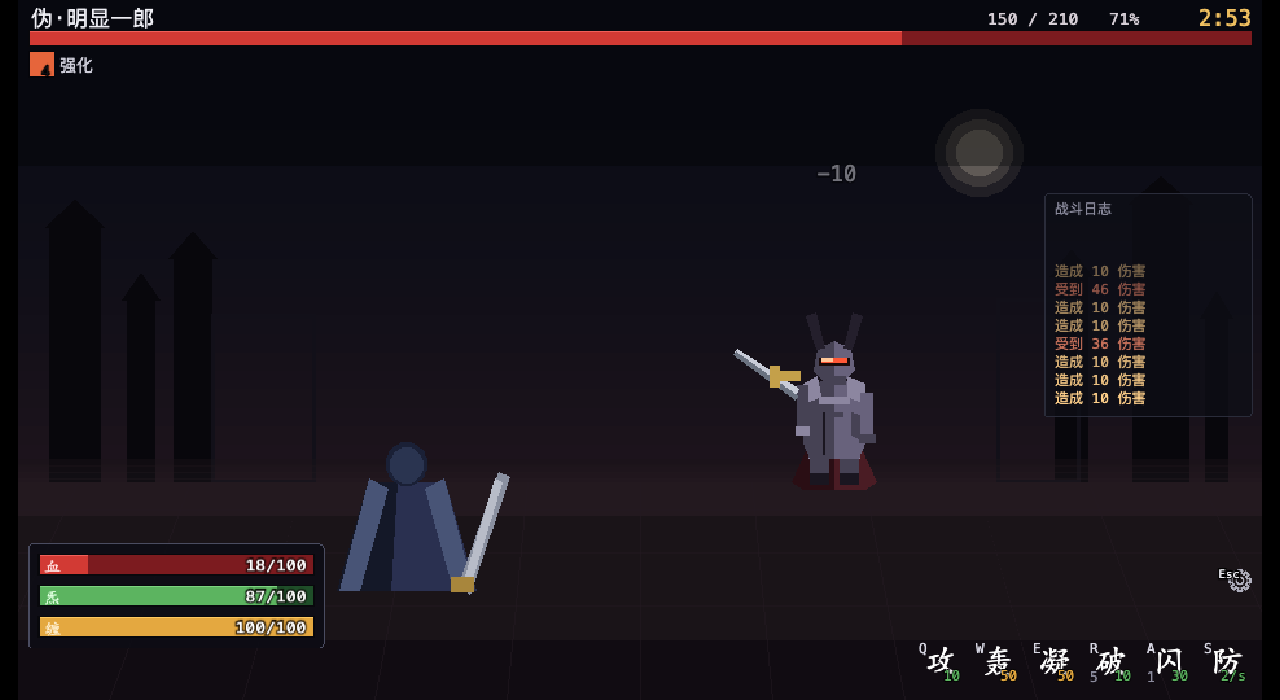
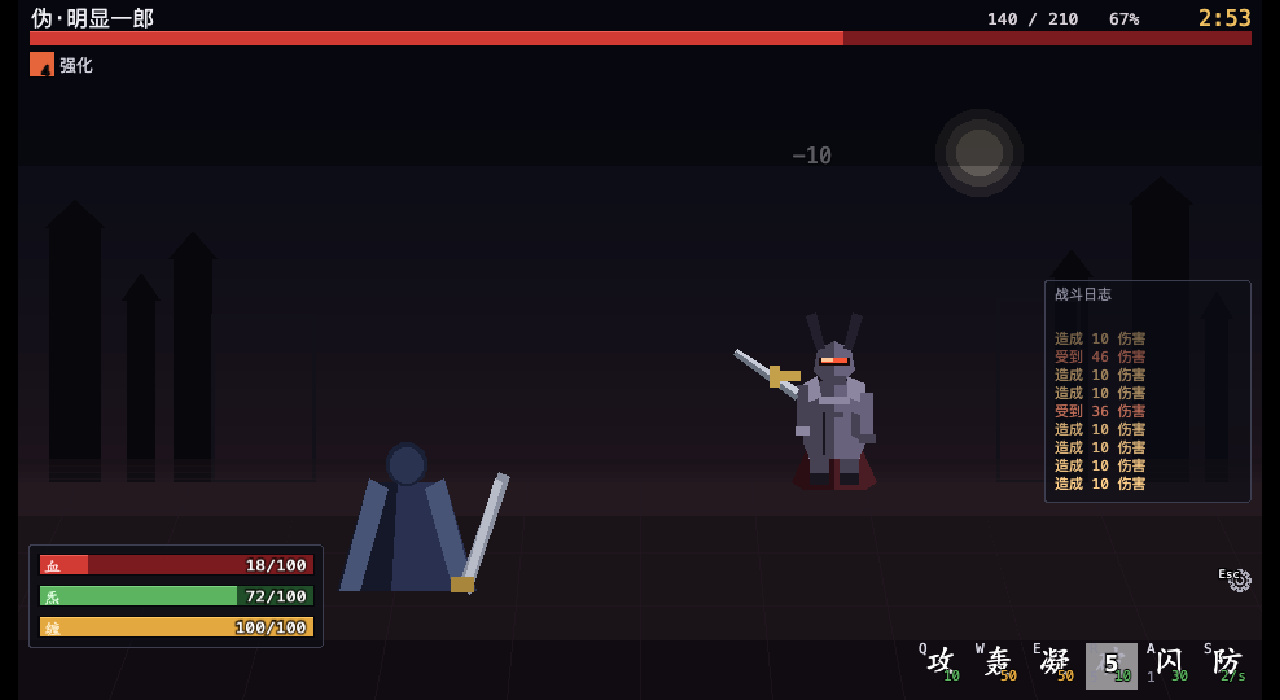
fix(settings): 鼠标与方向键的选中合并；日志面板下移；面板外观统一
【1. 鼠标选中与方向键选中合并】
需求："设置里的按键设置，目前方向键选中和鼠标选中是两件事，应该合并。"

原先的语义是两套：
  - 方向键 → 移动**焦点**（高亮 + 详情跟着变）
  - 点格子 → 立刻 `startCapture`（进改键），**焦点不动** ——
    所以点完一个技能，详情区显示的还是上一个技能

现在统一成"**选中**"：
  - 点/悬停技能格 → `setFocusToSkill()`，与方向键走**同一条路径**
  - 改键统一走 `Enter`（`activateFocus`），于是"选中"与"改键"
    是两个清晰的动作
  - 新增 `hoverSkill()`，鼠标划过即选中（与键盘完全一致）

实测：悬停「破」→ 焦点 index 3、详情同步；悬停「防」→ index 5、
代价显示 `2 炁/秒`。

【2. 战斗日志面板下移：y 150 → 216】
150 时它紧贴 Boss buff 那一带，和顶栏视觉上挤在一起。
216 落在右侧中段空带：上距 Boss 区 156px、下（底边 388）距技能栏
104px、左不与 Boss 本体（约 x 560..700）重叠。

【3. 面板外观统一 + 透明度调低】
需求："战斗日志和人物资源面板用的是一个组件吗？最好用一个，
然后把背景的透明度调低。"

它们**本来就用同一个 `Panel` 组件**，但构造参数各写一遍：
填充 `0x0c0c14` vs `0x0d0e16`、描边 `0x4a4c60` vs `0x2a2c3a` ——
差异小到看不出来，却是两处要同步维护的真相。

抽出 `PANEL_STYLE`（fill / line / fillAlpha 0.62 / radius 3）：
  - 玩家资源面板、日志面板都展开它 → "所有面板是一个东西"成为默认
  - 透明度 0.62 比原先的 0.86 / 0.72 都低
  - **结算面板显式覆盖为 0.97**：它是结算，要挡住战斗画面

【测试 +4 条】共用外观常量、透明度低于原值、结算面板故意更实、
日志面板位置约束。

【另外，我修正了一个操作事故】
我之前一直用 `pkill -9 -f "Google Chrome"` 清理 headless 测试进程 ——
那个模式**会匹配用户正在用的 Chrome**，很可能把他的浏览器窗口关掉了。
现在一律只用带 `headless` 限定的模式。

531 测试 + lint + typecheck + build + CDP 端到端全过。

diff --git a/tests/unit/log.test.ts b/tests/unit/log.test.ts
@@ -2,6 +2,7 @@ import { describe, expect, it } from 'vitest';
 import { LogFormatter } from '../../src/app/logFormat';
 import { LAYOUT, LOGICAL, scaleUiRect } from '../../src/ui/layout';
 import { UiLayout } from '../../src/ui/uiLayout';
+import { PANEL_STYLE } from '../../src/ui/primitives';
 import {
   UI_SCALE_MAX,
   UI_SCALE_MIN,
@@ -502,5 +503,50 @@ describe('UI 缩放：覆盖面与鼠标支持', () => {
     expect(hitTest(rect.x + 4, rect.y + 4, { tab: 'keys', rowSkillIds: ['attack'] }).kind).not.toBe(
       'scaleSlider',
     );
+  });
+});
+
+describe('面板外观统一', () => {
+  /**
+   * 需求："战斗日志和人物资源面板用的是一个组件吗？最好用一个，
+   * 然后把背景的透明度调低。"
+   *
+   * 它们**本来就用同一个 `Panel` 组件**，但构造参数各写一遍
+   * （填充 `0x0c0c14` vs `0x0d0e16`、描边 `0x4a4c60` vs `0x2a2c3a`）——
+   * 差异小到看不出，却是两处要同步维护的真相。
+   */
+  it('【关键】日志面板与资源面板共用同一组外观参数', async () => {
+    const { readFileSync } = await import('node:fs');
+    const log = readFileSync(new URL('../../src/ui/LogPanel.ts', import.meta.url), 'utf8');
+    const scene = readFileSync(new URL('../../src/render/BattleScene.ts', import.meta.url), 'utf8');
+    // 两者都从共享常量展开，而不是各写 fill/line/fillAlpha
+    expect(log).toMatch(/\.\.\.PANEL_STYLE/);
+    expect(scene).toMatch(/\.\.\.PANEL_STYLE/);
+    // 而且都不该再出现"自己写的面板填充色"
+    expect(log).not.toMatch(/fill: 0x0d0e16/);
+    expect(scene).not.toMatch(/fill: 0x0c0c14/);
+  });
+
+  it('共享样式的透明度低于原先的两个值（需求："调低"）', () => {
+    expect(PANEL_STYLE.fillAlpha).toBeLessThan(0.72);
+    expect(PANEL_STYLE.fillAlpha).toBeGreaterThan(0.3);
+  });
+
+  it('结算面板**故意**比常规面板不透明（它是结算，要挡住战斗画面）', async () => {
+    const { readFileSync } = await import('node:fs');
+    const scene = readFileSync(new URL('../../src/render/BattleScene.ts', import.meta.url), 'utf8');
+    const idx = scene.indexOf('this.resultPanel = new Panel');
+    expect(idx).toBeGreaterThan(0);
+    expect(scene.slice(idx, idx + 400)).toMatch(/fillAlpha: 0\.9/);
+  });
+
+  it('日志面板在右侧中段：不压顶栏、不压技能栏、不与 Boss 本体重叠', () => {
+    const r = LAYOUT.log;
+    // 下移过（150 → 216）：与顶栏/Boss buff 拉开距离
+    expect(r.y).toBeGreaterThanOrEqual(200);
+    expect(r.y + r.h).toBeLessThanOrEqual(LAYOUT.skillBar.y);
+    // 贴右边缘（留安全边距）
+    expect(r.x + r.w).toBeLessThanOrEqual(LOGICAL.width);
+    expect(r.x).toBeGreaterThan(LOGICAL.width / 2);
   });
 });

diff --git a/src/ui/settings/SettingsPanel.ts b/src/ui/settings/SettingsPanel.ts
@@ -423,9 +423,21 @@ export class SettingsPanel {
         this.setNotice(this.options.translate('settings.keysResetDone'));
         this.redraw();
         return true;
-      case 'keyRow':
-        this.startCapture(target.skillId);
+      case 'keyRow': {
+        /**
+         * ⚠ 点技能格 = **选中**，不是直接改键。
+         *
+         * 需求："设置里的按键设置，目前方向键选中和鼠标选中是两件事，
+         * 应该合并。"
+         *
+         * 原先点格子会立刻 `startCapture`（进入改键），而方向键只是移动
+         * 焦点 —— 两套语义，而且点完之后详情区显示的还是**上一个**
+         * 技能（焦点没变）。现在鼠标与方向键都只做"选中"，
+         * 改键统一走 `Enter`（`activateFocus`）。
+         */
+        this.setFocusToSkill(target.skillId);
         return true;
+      }
       case 'scaleSlider':
         /**
          * 鼠标点/拖滑块：由横坐标直接反算倍数（点到哪跳到哪）。
@@ -441,6 +453,45 @@ export class SettingsPanel {
         // 点在弹窗内的空白处：消费掉，不穿透到战斗
         return true;
     }
+  }
+
+  /**
+   * 选中某个技能（合并鼠标与键盘的"选中"语义）。
+   *
+   * 只移动焦点并重画 —— **不**进入改键。改键统一由 `Enter` 触发
+   * （见 `activateFocus`），于是"选中"与"改键"是两个清晰的动作。
+   */
+  setFocusToSkill(skillId: string): void {
+    const index = this.options.getRows().findIndex((r) => r.skillId === skillId);
+    if (index < 0) return;
+    this.setFocus({ zone: 'grid', index });
+  }
+
+  /**
+   * 鼠标悬停到某个技能格上 —— 与方向键选中是**同一件事**。
+   *
+   * 需求要求合并这两者；悬停也走同一条路径，所以"鼠标划过"与
+   * "方向键移动"看到的是同一个高亮、同一份详情。
+   */
+  hoverSkill(px: number, py: number): void {
+    if (!this.visible || this.tab !== 'keys') return;
+    const rows = this.options.getRows();
+    const target = hitTestLogic(px, py, {
+      tab: this.tab,
+      rowSkillIds: rows.map((r) => r.skillId),
+    });
+    if (target.kind !== 'keyRow') return;
+    this.setFocusToSkill(target.skillId);
+  }
+
+  /** 设焦点并重画（统一入口，保证焦点变化一定会重绘）。 */
+  private setFocus(next: SettingsFocus): void {
+    const same =
+      next.zone === this.focus.zone &&
+      (next.zone !== 'grid' || next.index === (this.focus.zone === 'grid' ? this.focus.index : -1));
+    if (same) return;
+    this.focus = next;
+    this.redraw();
   }
 
   /** 某个逻辑坐标是否落在通用页的滑块上（拖动拖拽用）。 */

diff --git a/src/ui/primitives.ts b/src/ui/primitives.ts
@@ -58,6 +58,33 @@ export interface PanelProps {
  */
 export const HALF_PIXEL = 0.5;
 
+/**
+ * 面板的**共享外观**（填充色 / 描边 / 透明度 / 圆角）。
+ *
+ * ==================================================================
+ * 为什么要抽出来
+ * ==================================================================
+ *
+ * 需求："战斗日志和人物资源面板用的是一个组件吗？最好用一个，
+ * 然后把背景的透明度调低。"
+ *
+ * 它们**本来就用的是同一个 `Panel` 组件**，但构造参数各写了一遍：
+ * 填充 `0x0c0c14` vs `0x0d0e16`、描边 `0x4a4c60` vs `0x2a2c3a` ——
+ * 差异小到看不出来，却是两处需要同步维护的真相。
+ *
+ * 抽成常量之后"所有面板看起来是一个东西"变成**默认行为**，
+ * 而不是每次都得记得抄对参数。
+ *
+ * 透明度取 0.62：比原来的 0.86 / 0.72 都低 —— 需求要"调低"，
+ * 而且面板是**压在战斗画面之上**的，越透越不影响看战斗。
+ */
+export const PANEL_STYLE = {
+  fill: 0x0c0d15,
+  line: 0x3c3e50,
+  fillAlpha: 0.62,
+  radius: 3,
+} as const;
+
 export class Panel {
   readonly root: Container;
   private readonly gfx: Graphics;

diff --git a/src/render/BattleScene.ts b/src/render/BattleScene.ts
@@ -49,7 +49,7 @@ const RESOURCE_COLORS: Readonly<Record<ResourceKeyName, number>> = {
   energy: PALETTE.energy.base,
   douqi: PALETTE.douqi.base,
 };
-import { Bar, Label, Panel, type PixiCtor } from '../ui/primitives';
+import { Bar, Label, PANEL_STYLE, Panel, type PixiCtor } from '../ui/primitives';
 import { BossSprite } from './actors/BossSprite';
 import {
   isTightWindow,
@@ -878,9 +878,7 @@ export class BattleScene {
       y: pf.y,
       w: pf.w,
       h: pf.h,
-      fill: 0x0c0c14,
-      line: 0x4a4c60,
-      fillAlpha: 0.86,
+      ...PANEL_STYLE,
     });
     /**
      * 面板标题去掉了（原来是「你」）。
@@ -1009,6 +1007,11 @@ export class BattleScene {
     const rh = LAYOUT.result.h;
     const rx = Math.round((LOGICAL.width - rw) / 2);
     const ry = Math.round((LOGICAL.height - rh) / 2) - 20;
+    /**
+     * 结算面板**故意比其它面板不透明**（0.97）：它是"结算"，
+     * 需要挡住背后的战斗画面让人专心看结果 —— 所以显式覆盖透明度，
+     * 而不是跟着 `PANEL_STYLE` 走。
+     */
     this.resultPanel = new Panel(pixi, {
       x: rx,
       y: ry,

diff --git a/src/ui/layout.ts b/src/ui/layout.ts
@@ -247,7 +247,16 @@ export const LAYOUT = {
    * 行距收窄（需求："行间距小一点"）之后面板跟着变矮，
    * 否则底部会空出一截（行是从下往上排的，空白会堆在标题下面）。
    */
-  log: { x: 792, y: 150, w: 160, h: 172 },
+  /**
+   * ⚠ 位置下移过：150 → **216**（需求："战斗日志 panel 位置可以下移一点"）。
+   *
+   * 150 时它紧贴 Boss buff 条那一带，视觉上和顶栏挤在一起。
+   * 216 让它落在**右侧中段**的空带里：
+   *   - 上：Boss 血条/buff 到 y≈60，留 156px
+   *   - 下：底边 388，距技能栏（492）还有 104px
+   *   - 左：Boss 本体约 x 560..700，日志从 792 起，不重叠
+   */
+  log: { x: 792, y: 216, w: 160, h: 172 },
 
   /** 状态提示（"闪躲！"/"被打断"）：角色之间的空旷处 */
   status: { x: 480, y: 236 },

diff --git a/src/ui/LogPanel.ts b/src/ui/LogPanel.ts
@@ -28,7 +28,7 @@
 import type { Container } from 'pixi.js';
 import type { LogEntry } from '../app/logFormat';
 import { FONT, LAYOUT, LOGICAL } from './layout';
-import { Label, Panel, type PixiCtor } from './primitives';
+import { Label, PANEL_STYLE, Panel, type PixiCtor } from './primitives';
 import { PALETTE } from '../render/theme';
 
 export interface LogPanelOptions {
@@ -79,15 +79,13 @@ export class LogPanel {
     const r = LAYOUT.log;
     this.root = new pixi.Container();
 
+    // 与玩家资源面板**同一套外观**（见 `PANEL_STYLE` 的说明）
     this.panel = new Panel(pixi, {
       x: r.x,
       y: r.y,
       w: r.w,
       h: r.h,
-      fill: 0x0d0e16,
-      line: 0x2a2c3a,
-      fillAlpha: 0.72,
-      radius: 3,
+      ...PANEL_STYLE,
     });
     this.root.addChild(this.panel.root);
 

diff --git a/src/main.ts b/src/main.ts
@@ -514,9 +514,19 @@ async function bootstrap(): Promise<void> {
   });
 
   app.canvas.addEventListener('pointermove', (event) => {
-    if (!draggingSlider) return;
-    const { px } = pointerAt(event);
-    settings.dragScaleSlider(px);
+    const { px, py } = pointerAt(event);
+    /**
+     * 拖滑块优先 —— 一次手势一旦从滑块开始，就不要再被悬停抢走。
+     */
+    if (draggingSlider) {
+      settings.dragScaleSlider(px);
+      return;
+    }
+    /**
+     * 鼠标悬停到技能格 = **选中它**（需求："方向键选中和鼠标选中，
+     * 应该合并"）。与方向键走同一条路径，所以高亮与详情完全一致。
+     */
+    settings.hoverSkill(px, py);
   });
 
   // 松开/离开画布就结束这次手势（否则会一直粘着）
